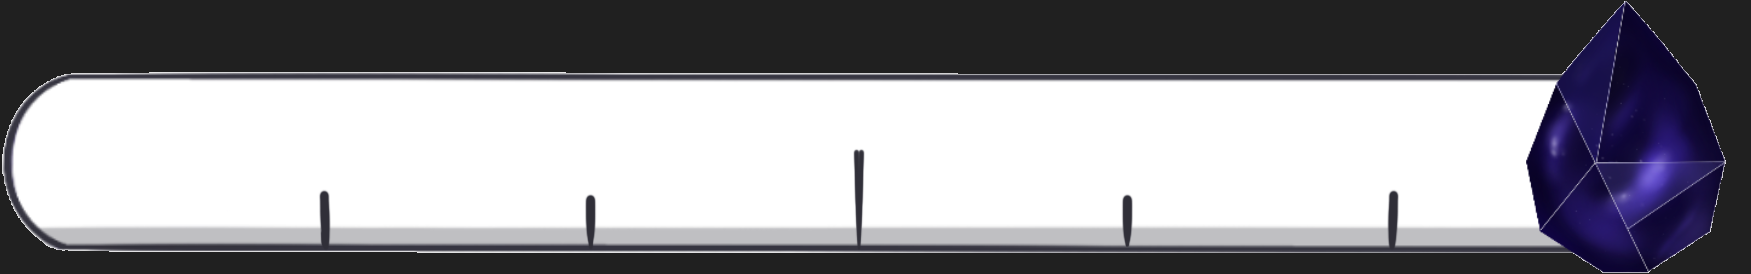
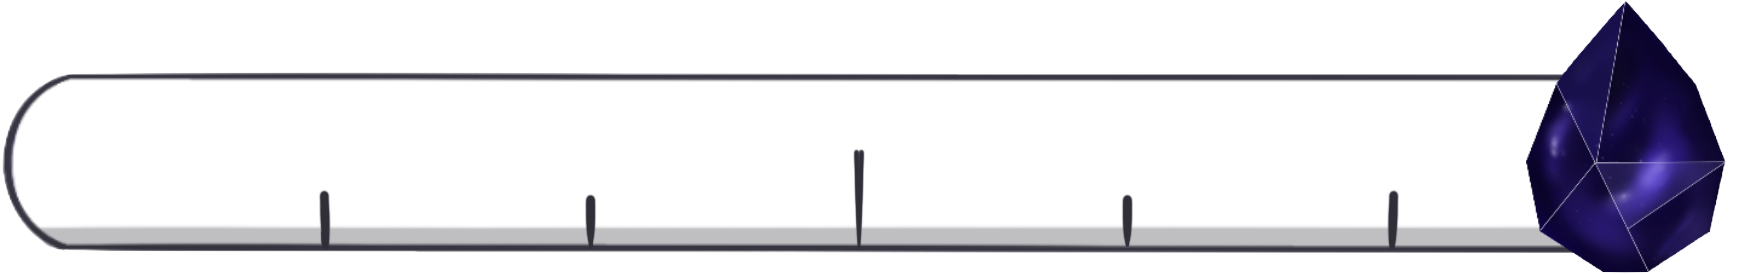
new persos format

diff --git a/src/app/entites/entites.component.html b/src/app/entites/entites.component.html
@@ -8,31 +8,24 @@
     <p class="text etat">{{perso.etat}}</p>
 
     <div class="flex bottomGroup">
-        <div class="conteneurIcone">
-            <img class="icone" draggable="false" src="./assets/images/{{perso.image}}m.png"/>
-        </div>
         <div class="pdvmana">
-            <div class="flex">
-                <p class="pdvtext" [style.color]="(perso.pdv/perso.pdvmax>0.6?'green':(perso.pdv/perso.pdvmax>0.3?'orange':'red'))">{{perso.pdv}}/{{perso.pdvmax}}</p>
+            <div class="flex pdvmanadiv">
+                <p class="pdvtext">{{perso.pdv}}/{{perso.pdvmax}}</p>
                 <div>
-                    <img draggable="false" src="./assets/images/pdvicon.png"/>
+                    <img class="fill" draggable="false" src="./assets/images/pdvfill.PNG"/>
+                    <img draggable="false" src="./assets/images/pdvmanabar.png"/>
                 </div>
             </div>
-            <div class="flex">
+            <div class="flex pdvmanadiv">
                 <p class="manatext">{{perso.mana}}/{{perso.manamax}}</p>
                 <div>
-                    <img draggable="false" src="./assets/images/manaicon.png"/>
+                    <img class="fill" draggable="false" src="./assets/images/manafill.PNG"/>
+                    <img draggable="false" src="./assets/images/pdvmanabar.png"/>
                 </div>
             </div>
         </div>
     </div>
     </div>
-    <div class="example-handle" (mouseover)="focus='handle'" (mouseout)="focus=undefined" cdkDragHandle>
-        <svg width="24px" fill="currentColor" viewBox="0 0 24 24">
-        <path d="M10 9h4V6h3l-5-5-5 5h3v3zm-1 1H6V7l-5 5 5 5v-3h3v-4zm14 2l-5-5v3h-3v4h3v3l5-5zm-9 3h-4v3H7l5 5 5-5h-3v-3z"></path>
-        <path d="M0 0h24v24H0z" fill="none"></path>
-        </svg>
-    </div>
 
-    <p class="position">V</p>
+    <img class="perso" style="position:absolute;height:65px;left:55px;bottom:-65px;" draggable="false" src="./assets/images/{{perso.image}}.png" cdkDragHandle/>
 </div>

diff --git a/src/app/entites/entites.component.scss b/src/app/entites/entites.component.scss
@@ -6,79 +6,42 @@
 
 .entite{
     overflow: hidden;  
-    border-radius:25%;
-    border:1px solid black;
-    background-color:#202020d0;
-}
-
-.bottomGroup{
-    padding:5px;
-}
-
-.bottomGroup p{
-    //color:white;
-    font-weight: bold;
-    width:100%;
-}
-
-.manatext{
-    color:#8080ff;
-}
-
-.icone{
-    width:50px;
-    height:50px;
-    margin-right:2px;
-    //border:1px solid white;
-    //border-radius:100%;
+    border-top-left-radius:15px;
+    border-top-right-radius:15px;
 }
 
 .pdvmana p{
-    top:3px;
-    margin-right:3px;
+    color:white;
+    font-weight: bold;
+    position:absolute;
+    left:37%;
+    z-index:1;
 }
 
 .pdvmana img{
-    width:25px;
-    height:25px;
+    width:100%;
+    height:100%;
 }
 
-.example-handle {
-    border:1px solid black;
-    background-color:black;
-    position: absolute;
-    top: -5px;
-    right: -10px;
-    color: #ccc;
-    cursor: move;
-    width: 24px;
-    height: 24px;
-    border-radius:100%;
-  }
+.fill{
+  position: absolute;
+}
+
 
   .text{
-    background-color:black;
+    background-color:#000000bb;
     color:white;
     text-align: center;
   }
 
   .nom{
-    font-size:13px;
+    font-size:16px;
   }
 
   .etat{
-    font-size:11px;
+    font-size:14px;
   }
 
-  .conteneurIcone{
-    display:flex;
-    justify-content: center;
-  }
-
-  .position{
-    position: absolute;
-    bottom: -12px;
-    left: 50%;
-    font-weight: bold;
-    font-size: 12px;
+  .perso:hover{
+    cursor:grab;
   }
